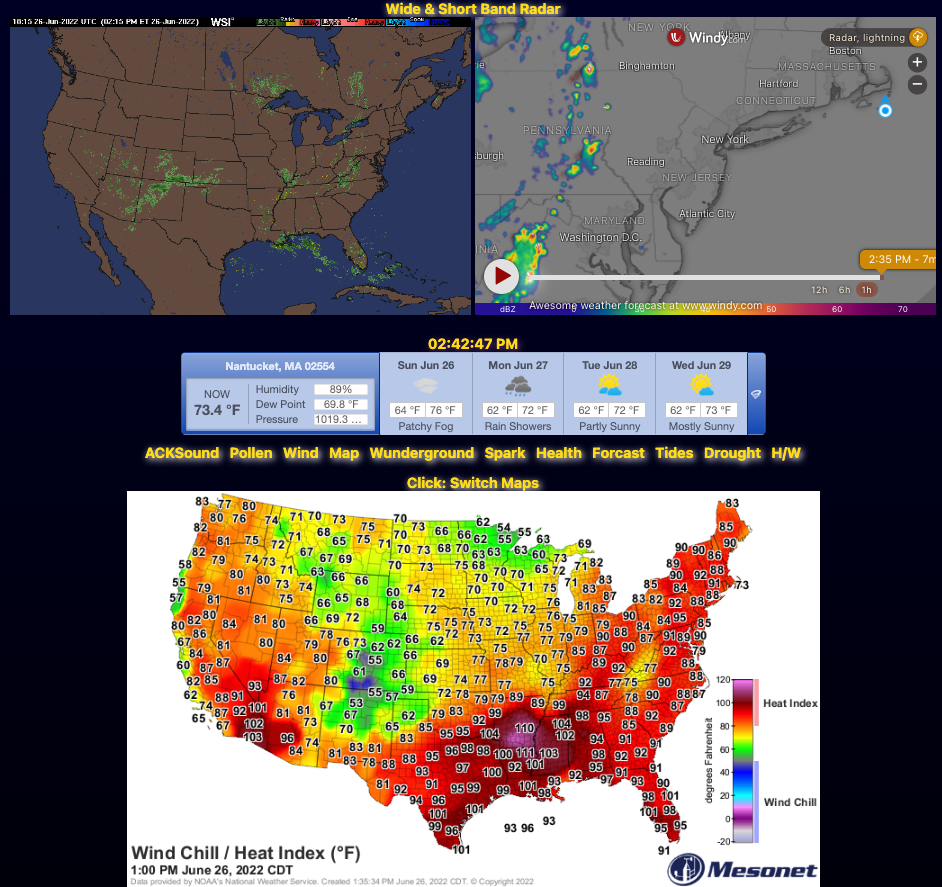
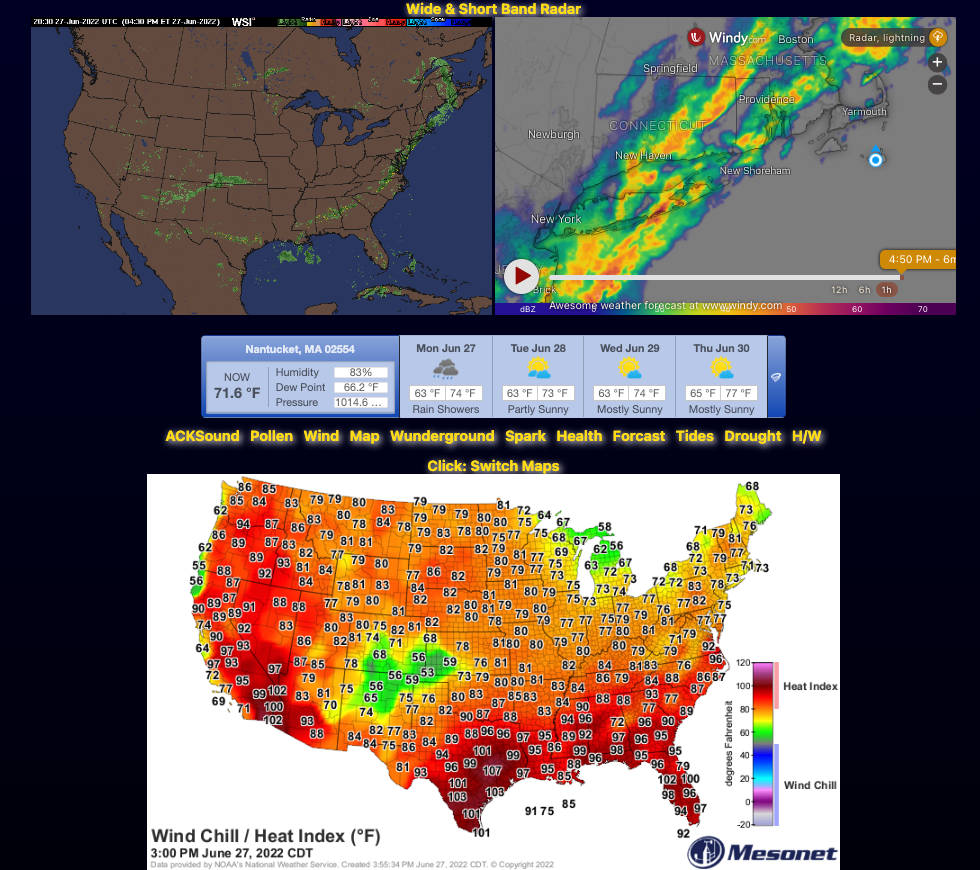
Spring 2022 Edition
Clock code removed
As time moved forward it would become harder and harder for it to refresh the page gobbling up memory. It was bad code.

diff --git a/weather.html b/weather.html
@@ -22,30 +22,6 @@
 
 	</style>
 	<script> 
-		function clock() {
-			let date = new Date();
-			let hrs = date.getHours();
-			let mins = date.getMinutes();
-			let secs = date.getSeconds();
-			let period = "AM";
-	  
-			if (hrs == 0) {hrs = 12;}
-			else if (hrs > 12) {
-		  	hrs = hrs - 12;
-		  	period = "PM";
-			}
-	  
-			hrs = hrs < 10 ? `0${hrs}` : hrs;
-			mins = mins < 10 ? `0${mins}` : mins;
-			secs = secs < 10 ? `0${secs}` : secs;
-	  
-		let time = `${hrs}:${mins}:${secs} ${period}`;
-		setInterval(clock, 1000);
-		document.getElementById("clock").innerText = time;
-	  } //end clock()
-	  clock();  //activate
-
-	  //--------------
 	  function swapImages(){
 		  	if( document.getElementById("img-1").src.indexOf(1) > -1 ){
     			document.getElementById("img-1").src = "https://www.mesonet.org/data/public/noaa/metar/maps/realtime/latest.relh.png";
@@ -53,7 +29,6 @@
     			document.getElementById("img-1").src = "https://www.mesonet.org/data/public/noaa/metar/maps/realtime/latest.tapp.png?cache_bust=1577754836685";
   			}
 	  }//end swapImages()
-
 	</script> 
 	<script type="text/javascript" src="http://ajax.googleapis.com/ajax/libs/jquery/1.6.1/jquery.min.js"></script>
 
@@ -66,9 +41,7 @@
         <iframe width="512" height="331" src="https://embed.windy.com/embed2.html?lat=41.217&lon=-71.924&zoom=7&level=surface&overlay=radar&menu=&message=true&marker=&calendar=&pressure=&type=map&location=coordinates&detail=&detailLat=40.833&detailLon=-70.112&metricWind=mph&metricTemp=%C2%B0F&radarRange=-1" frameborder="0"></iframe>
 	<br>
 	<br>
-	<div id="clock" style=" text-align: center;" title="Local Time"><!-- insert clock code --></div>
-
-    <span style="width: 650px;">
+	<span style="width: 650px;">
 		<iframe style="display: inline-block;" src="http://cdnres.willyweather.com/widget/loadView.html?id=45254" width="650" height="92" frameborder="0" scrolling="no"></iframe>
 		<a style="z-index: 1;width: 20px;margin: -92px 0 0 0;position: relative;height: 92px;text-indent: -9999em;float: right" href="http://www.willyweather.com/ma/nantucket-county/nantucket.html">Nantucket Weather</a>
 	</span>

diff --git a/README.md b/README.md
@@ -14,7 +14,6 @@ Extra features:
 	-Data is refreshed every 10 minutes
 	-Dolpar / Lightning Radar
     -Current weather conditions with four day forcast with more detailed if you click on the date
-	-Clock
 	-Interactive Maps that show everything and are adjustable for location
     -Interactive Forcast: Click to toggle Heat/Wind Chill Map <-> Relative Humidty Map
 	
